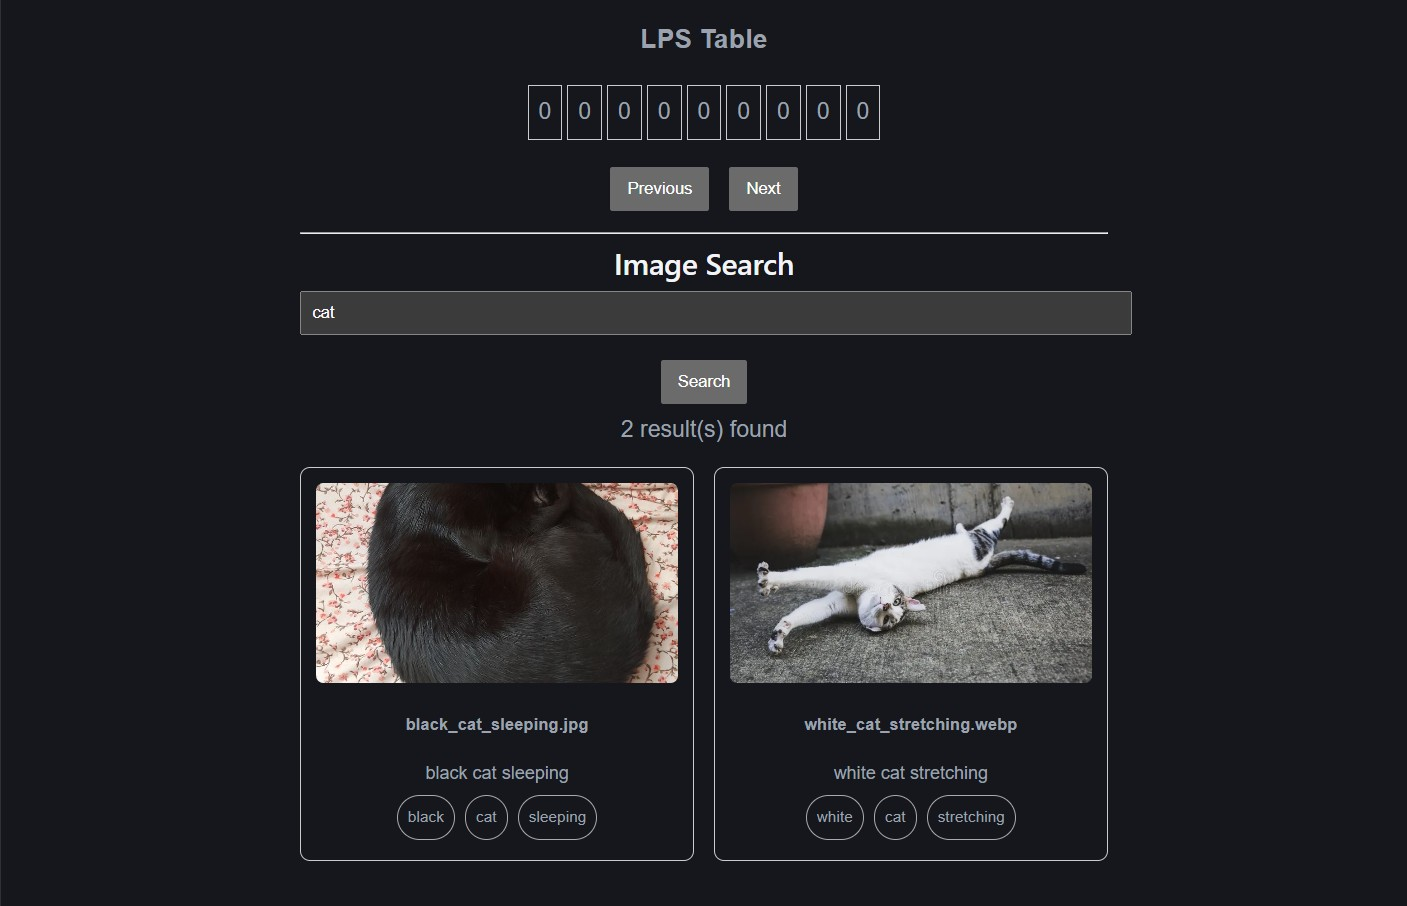
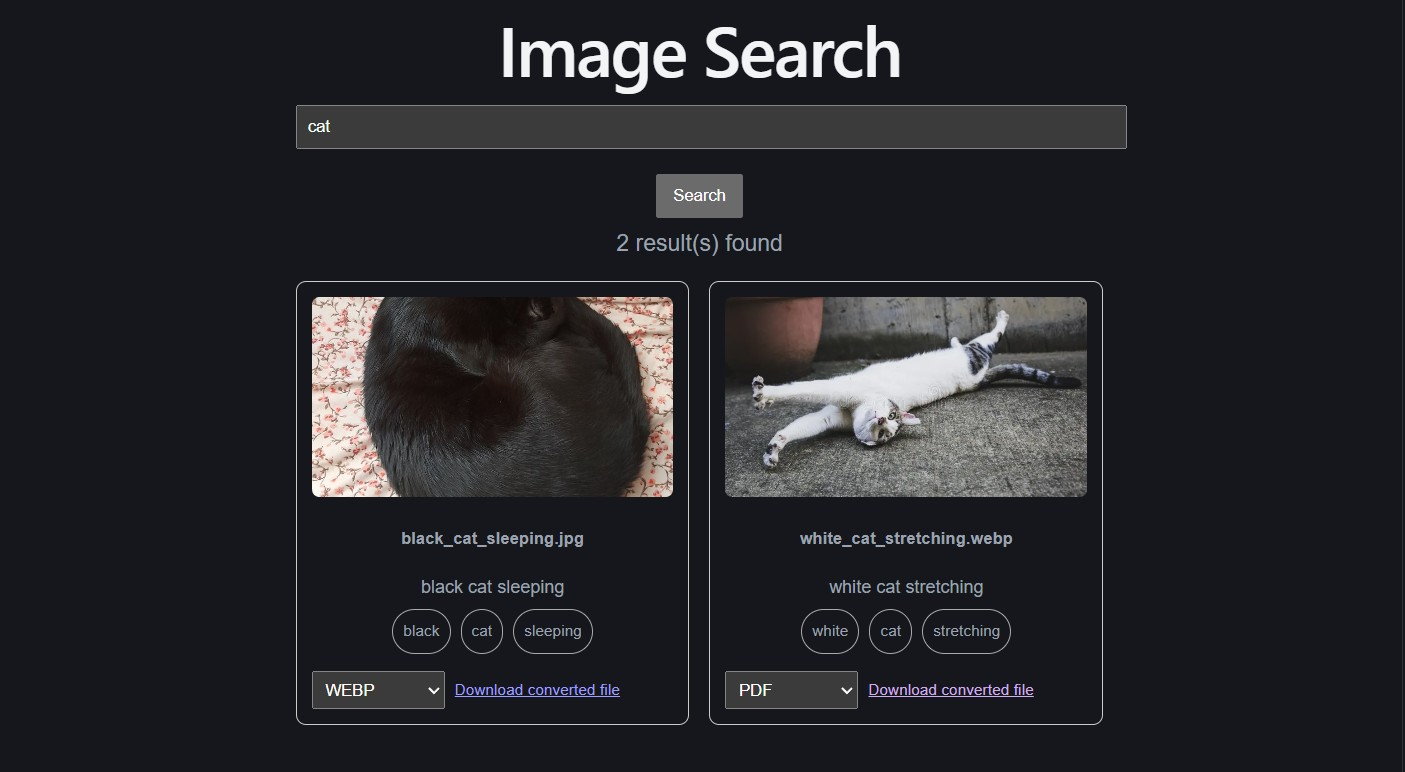
Update README.md

Changed region(s): [[0.1836, 0.0311, 0.8263, 0.9637]]

diff --git a/README.md b/README.md
@@ -45,7 +45,7 @@ Built with a React frontend and FastAPI backend, the application automatically i
 - Clickable image previews and filenames that link directly to original image assets through custom FastAPI preview and open file locations through Windows Explorer integration
   - Added a custom FastAPI preview route to serve image assets with inline display headers for consistent browser preview behavior across JPG, PNG, and WebP files.
   - Windows Explorer integration is only supported in local Windows execution mode, while Dockerized/live demo supports KMP visualization, image search, and preview.
-- Format convertion options for the result images using Pillow
+- Format convertion options for uploaded files and search results using Pillow
 - Automated testing and continuous integration using Pytest, Git, and GitHub Actions
 
 #### Current Architecture
@@ -70,7 +70,6 @@ React Search Interface
 ![screenshot4](ImageFolder/Screenshot4.jpg)
 ![screenshot5](ImageFolder/Screenshot5.jpg)
 ![screenshot6](ImageFolder/Screenshot6.jpg)
-![screenshot7](ImageFolder/Screenshot7.jpg)
 
 ## Local Usage
 ### Set up frontend and backend server